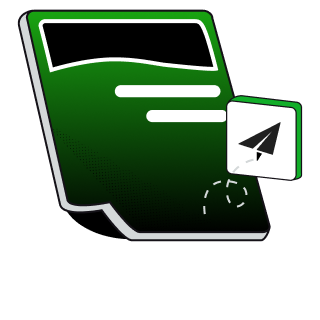
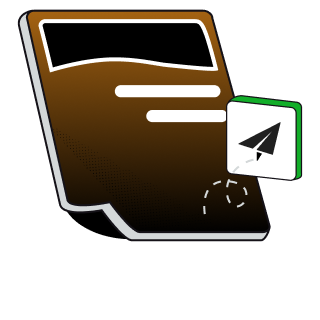
换ui

Changed region(s): [[0.0625, 0.0312, 0.8125, 0.625]]

diff --git a/src/views/team/index.vue b/src/views/team/index.vue
@@ -16,35 +16,35 @@
             </div>
             <div class="flex mt48">
                 <div class="flex1">
-                    <div class="size32 bold black" v-filter="userInfo?.team_count"></div>
+                    <div class="size32 bold" v-filter="userInfo?.team_count"></div>
                     <div class="size24 gray mt10">{{ $t('总人数') }}</div>
                 </div>
                 <div class="flex1">
-                    <div class="size32 bold black" v-filter="userInfo?.referral_count"></div>
+                    <div class="size32 bold" v-filter="userInfo?.referral_count"></div>
                     <div class="size24 gray mt10">{{ $t('分享人数') }}</div>
                 </div>
                 <div class="flex1">
-                    <div class="size32 bold black">{{ userInfo?.level?.name || '--' }}</div>
+                    <div class="size32 bold">{{ userInfo?.level?.name || '--' }}</div>
                     <div class="size24 gray mt10">{{ $t('当前等级') }}</div>
                 </div>
             </div>
-            <div class="topCard mt50 flex jb ac size26" style="background: #068135;">
+            <div class="topCard mt50 flex jb ac size26">
                 <div>{{ $t('团队撸金') }}</div>
                 <div class="bold">
                     <span v-filter="userInfo?.team_kpi"></span>
                     USDT
                 </div>
             </div>
-            <div class="topCard mt30 flex jb ac size26" style="background: #068135;">
+            <div class="topCard mt30 flex jb ac size26">
                 <div>{{ $t('小区撸金') }}</div>
                 <div class="bold">
                     <span v-filter="userInfo?.kpi"></span>
                     USDT
                 </div>
             </div>
-            <div class="topCard mt30 flex jb ac size26" style="background: #068135;">
+            <div class="topCard mt30 flex jb ac size26">
                 <div>{{ $t('小区订单数量') }}</div>
-                <div class="bold">{{ userInfo?.xq_order_num }}</div>
+                <div class="bold">{{ userInfo?.xq_order_num || 0 }}</div>
             </div>
         </div>
 

diff --git a/src/views/home/index.vue b/src/views/home/index.vue
@@ -1,5 +1,4 @@
 <template>
-    <img src="@/assets/home/bg.png" class="bg">
     <div class="gap100"></div>
     <div class="banner">
         <Plasma></Plasma>
@@ -7,7 +6,7 @@
     <div class="rel">
         <div class="top">
             <div class="flex jc">
-                <div class="title size70 fontS">全球首個沉香產業</div>
+                <div class="title size70 fontS">外匯黃金</div>
             </div>
             <div class="flex jc mt30">
                 <div class="tc ml30 mr30 size26 topTag">核心代理第1次籌備會議</div>
@@ -72,6 +71,7 @@
             </div>
         </div>
     </div>
+    <div class="gap100"></div>
 
 </template>
 
@@ -148,14 +148,15 @@ const submit = async () => {
         display: inline-block;
         padding: 10px 30px;
         border-radius: 26px;
-        background: linear-gradient(to right, #148140, #114723);
+        background: linear-gradient(to right, #F9E0B7, #E8B373);
+        color: #000000;
     }
 }
 
 .homeNotice {
     height: 88px;
     padding: 0 30px;
-    border: 1px solid #FFFFFF;
+    border: 1px solid rgba($color: #FFFFFF, $alpha: 0.4);
 }
 
 .tag{
@@ -168,11 +169,11 @@ const submit = async () => {
 .card {
     padding: 96px 30px 40px 30px;
     border-radius: 4px;
-    background-color: #FFFFFF;
+    background-color: #1A1A1A;
     position: relative;
 
     .price{
-        background: linear-gradient(to right, #148140, #114723);
+        background: linear-gradient(to right, #F9E0B7, #E8B373);
         -webkit-background-clip: text;
         background-clip: text;
         -webkit-text-fill-color: transparent;
@@ -182,12 +183,13 @@ const submit = async () => {
     .titleBox{
         width: 680px;
         height: 100px;
-        background: linear-gradient(to right, #4A8F60, #1E6432);
+        background: linear-gradient(to right, #F9E0B7, #E8B373);
         padding: 0 30px;
         position: absolute;
         top: -44px;
         left: -20px;
         z-index: 1;
+        color: #000000;
     }
 }
 

diff --git a/src/views/invite/index.vue b/src/views/invite/index.vue
@@ -6,7 +6,7 @@
     <div class="pl30 pr30 rel">
 
         <div class="flex jc">
-            <div class="title size60 fontS">迭代1000億沉香產業</div>
+            <div class="title size60 fontS">外匯黃金</div>
         </div>
         <div class="flex jc ac mt30">
             <div class="line"></div>
@@ -17,7 +17,7 @@
         <div class="tc mt60 fontS bold size60">{{ $t('开启你的探索之旅') }}</div>
 
         <div class="flex jc mt30">
-            <div class="tc ml30 mr30 size26 topTag">{{ $t('加入波场哈希撸金') }} {{ $t('邀您共同创富') }}</div>
+            <div class="tc ml30 mr30 size26 topTag">外匯黃金{{ $t('邀您共同创富') }}</div>
         </div>
 
         <div class="mainTop mt154">
@@ -32,7 +32,7 @@
                 </div>
             </div>
             <div class="linearTxt size80 fontP">{{ userInfo?.referral_code || '--' }}</div>
-            <div class="linearTxt bold fontP size28 mt50">全球首個沉香產業</div>
+            <div class="linearTxt bold fontP size28 mt50">外匯黃金</div>
             <div class="linearTxt bold fontP size28 mt20">企業數字化升級改造</div>
         </div>
 
@@ -89,7 +89,8 @@ const inviteUrl = computed(()=>`${window.origin}?ref=${userInfo.value?.referral_
     display: inline-block;
     padding: 10px 30px;
     border-radius: 26px;
-    background: linear-gradient(to right, #148140, #114723);
+    background: linear-gradient(to right, #F9E0B7, #E8B373);
+    color: #000000;
 }
 .copy{
     background-color: #FFFFFF0F;

diff --git a/src/styles/main.scss b/src/styles/main.scss
@@ -1,4 +1,4 @@
-$main-color: #068135; // 主色
+$main-color: #F9E0B7; // 主色
 $yellow: #F7931A;
 $green: #068135;
 $red: #D92522;
@@ -100,7 +100,7 @@ body{
     width: 100%;
     border-radius: 10px;
     background-color: $main-color;
-    color: #FFFFFF;
+    color: #000000;
     font-size: 28px;
     text-align: center;
     line-height: 88px;
@@ -183,11 +183,11 @@ body{
 .mainTop {
     padding: 96px 30px 40px 30px;
     border-radius: 4px;
-    background-color: #FFFFFF;
+    background-color: #1A1A1A;
     position: relative;
 
     .linearTxt{
-        background: linear-gradient(to right, #148140, #114723);
+        background: linear-gradient(to right, #F9E0B7, #E8B373);
         -webkit-background-clip: text;
         background-clip: text;
         -webkit-text-fill-color: transparent;
@@ -197,7 +197,8 @@ body{
     .titleBox{
         width: 680px;
         height: 100px;
-        background: linear-gradient(to right, #1E6432, #4A8F60);
+        background: linear-gradient(to right, #F9E0B7, #E8B373);
+        color: #000000;
         padding: 0 30px;
         position: absolute;
         top: -44px;
@@ -206,7 +207,8 @@ body{
     }
 
     .topCard{
-        background: linear-gradient(to right, #1E6432, #4A8F60);
+        background: linear-gradient(to right, #F9E0B7, #E8B373);
         padding: 26px 30px;
+        color: #000000;
     }
 }

diff --git a/src/views/index.vue b/src/views/index.vue
@@ -1,25 +1,36 @@
 <template>
+     <div class="bg">
+        <Plasma></Plasma>
+    </div>
     <div class="start flex jc ac">
-        <img src="@/assets/start.png" class="startImg animate__animated animate__lightSpeedInLeft">
+        <img src="@/assets/logo.png" class="startImg animate__animated animate__zoomIn">
     </div>
     <div class="size28 mt30 grey tips animate__animated animate__fadeInUp" v-if="!ethereum">请安装 MateMask !</div>
 </template>
 
 <script setup lang="ts">
+    import Plasma from '@/components/VueBits/Plasma.vue';
 const { ethereum } = window as any
 </script>
 
 <style lang="scss" scoped>
+.bg {
+    width: 100vw;
+    height: 100vh;
+    position: absolute;
+    top: 0;
+    left: 0;
+    opacity: 0.6;
+}
 .start {
     width: 100vw;
     height: 100vh;
     overflow: hidden;
     padding-bottom: 200px;
-    background: linear-gradient(#000000, #03250C);
 
     .startImg {
         width: 300px;
-        height: 300px;
+        height: auto;
     }
 }
 .tips{

diff --git a/src/modules/notice/views/list.vue b/src/modules/notice/views/list.vue
@@ -5,7 +5,7 @@
         <cus-list api="/api/notices" name="notices" v-slot="{ listData }">
             <div class="card mb20" v-for="(item,index) in listData" :key="index" @click="routerPush(`/notice/${item.id}`)">
                 <div class="flex jb ac">
-                    <div class="tag" v-filter:time="item.updated_at "></div>
+                    <div class="tag" v-filter:time="item.updated_at"></div>
                     <div class="flex ac">
                         <div class="size24 grey mr10">{{ $t('查看详情') }}</div>
                         <van-icon name="arrow" color="#666666" size="15"></van-icon>
@@ -27,12 +27,12 @@ import { routerPush } from '@/router';
 .card{
     padding: 30px;
     border-radius: 20px;
-    background-color: #F4F4F4;
+    background-color: #1A1A1A;
 }
 .tag{
     height: 44px;
     border-radius: 12px;
-    background-color: #FFFFFF;
+    background-color: #FFFFFF1A;
     padding: 0 20px;
     font-size: 24px;
     line-height: 44px;

diff --git a/src/layout/index.vue b/src/layout/index.vue
@@ -107,7 +107,7 @@ const onLogoClick = () => {
 
     .logo {
         width: 120px;
-        height: 40px;
+        height: 48px;
     }
 
     .lang{
@@ -120,8 +120,8 @@ const onLogoClick = () => {
     .connect{
         height: 56px;
         border-radius: 10px;
-        background: linear-gradient(to right, #1D6130, #068135);
-        color: #FFFFFF;
+        background: linear-gradient(to right, #F9E0B7, #E8B373);
+        color: #000000;
         padding: 0 16px;
         line-height: 56px;
     }
@@ -133,8 +133,8 @@ const onLogoClick = () => {
     padding-top: 100px;
     .menu{
         height: calc(100vh - 100px);
-        background-color: #FFFFFF;
-        color: #000000;
+        background-color: #1A1A1A;
+        color: #6D6D6D;
     }
 
     .item{

diff --git a/src/views/asset/index.vue b/src/views/asset/index.vue
@@ -14,11 +14,11 @@
             </div>
             <div class="flex mt60">
                 <div class="mainBtn flex ac mr30" @click="routerPush('/recharge')">
-                    <img src="@/assets/asset/1.png" class="img40 mr16">
+                    <!-- <img src="@/assets/asset/1.png" class="img40 mr16"> -->
                     <div>{{ $t('充值') }}</div>
                 </div>
                 <div class="mainBtn flex ac" @click="routerPush('/withdraw')">
-                    <img src="@/assets/asset/2.png" class="img40 mr16">
+                    <!-- <img src="@/assets/asset/2.png" class="img40 mr16"> -->
                     <div>{{ $t('提现') }}</div>
                 </div>
             </div>

diff --git a/src/views/order/index.vue b/src/views/order/index.vue
@@ -88,7 +88,8 @@ const tabsClick = (index: number) => {
     border-radius: 4px;
 }
 .act{
-    background: linear-gradient(to right, #1D6130, #068135);
+    background: linear-gradient(to right, #F9E0B7, #E8B373);
+    color: #000000;
 }
 .def{
     border: 1px solid #FFFFFF80;
@@ -98,7 +99,7 @@ const tabsClick = (index: number) => {
 .card {
     margin-bottom: 20px;
     padding: 40px;
-    border: 1px solid #FFFFFF;
+    border: 1px solid rgba($color: #FFFFFF, $alpha: 0.5);
     border-radius: 4px;
     position: relative;
 

diff --git a/src/dapp/index.ts b/src/dapp/index.ts
@@ -137,7 +137,7 @@ async function checkLoginIn(){
         if(path == loginPath){
             setTimeout(()=>{
                 router.replace(homePath)
-            },1000)
+            },1500)
         }
         updateUserInfo()
     }else{

diff --git a/src/components/VueBits/Plasma.vue b/src/components/VueBits/Plasma.vue
@@ -12,7 +12,7 @@ interface PlasmaProps {
 }
 
 const props = withDefaults(defineProps<PlasmaProps>(), {
-  color: '#068135',
+  color: '#E8B373',
   speed: 1,
   direction: 'forward',
   scale: 1.5,
